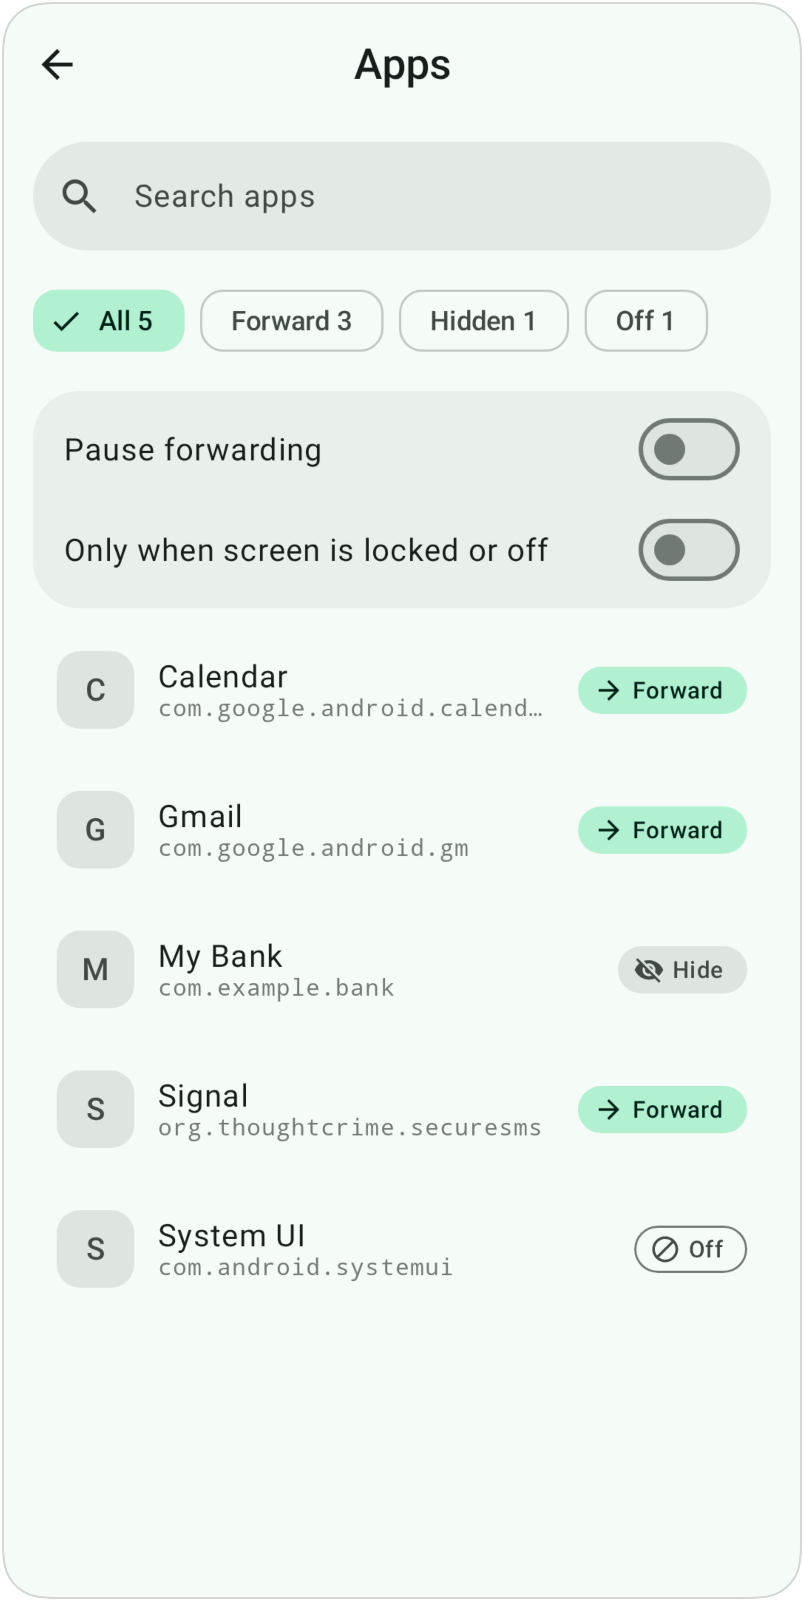
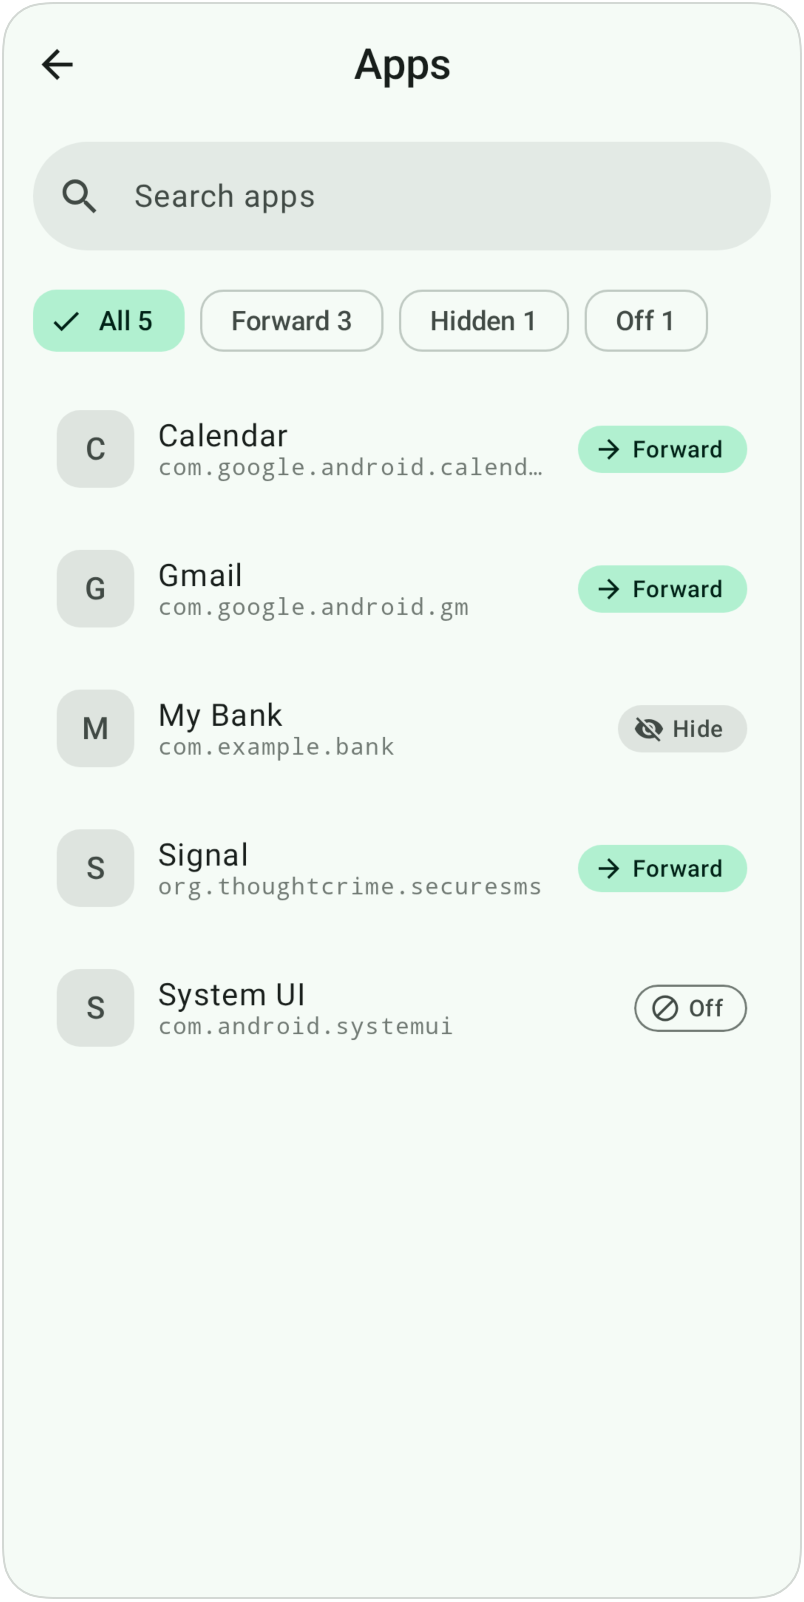
macOS: size the menu's activity list to its content
The menu-bar window proposes no height, so the ScrollView sized
itself to a sliver and showed part of one notification. Measure the
content and give the list an explicit height, capped at about two and
a half notification rows. The README snapshot lays out twice so it
picks up the measured height.

diff --git a/macos/App/Sources/Views/MenuBarView.swift b/macos/App/Sources/Views/MenuBarView.swift
@@ -25,7 +25,6 @@ struct MenuBarView: View {
             if model.phase == .ready {
                 NowPlayingSection()
                 ActivityList()
-                    .frame(maxHeight: 360)
             } else if model.phase == .onboarding {
                 notSetUp
             } else {
@@ -221,7 +220,11 @@ private struct NowPlayingSection: View {
 
 /// Recent notifications and clipboard items (in memory only).
 struct ActivityList: View {
+    /// About two and a half notification rows, so a cut-off row hints that the list scrolls.
+    static let maxHeight: CGFloat = 240
+
     @Environment(AppModel.self) private var model
+    @State private var contentHeight: CGFloat = 0
 
     var body: some View {
         let notifications = model.activity.notifications
@@ -255,7 +258,11 @@ struct ActivityList: View {
                 }
                 .padding(.horizontal, 6)
                 .padding(.vertical, 6)
+                .onGeometryChange(for: CGFloat.self) { $0.size.height } action: { contentHeight = $0 }
             }
+            // The menu-bar window offers no height of its own, so a ScrollView left to size
+            // itself collapses to a sliver. Size it to its content, up to the cap.
+            .frame(height: min(contentHeight, Self.maxHeight))
         }
     }
 }

diff --git a/macos/App/Tests/ReadmeImages.swift b/macos/App/Tests/ReadmeImages.swift
@@ -94,7 +94,7 @@ struct ReadmeImages {
     static func snapshot(_ view: some View) async throws -> NSImage {
         let host = NSHostingView(rootView: view)
         host.appearance = NSAppearance(named: .aqua)
-        let size = host.fittingSize
+        var size = host.fittingSize
         let window = NSWindow(contentRect: CGRect(origin: CGPoint(x: -10_000, y: -10_000), size: size),
                               styleMask: [.borderless], backing: .buffered, defer: false)
         window.appearance = NSAppearance(named: .aqua)
@@ -104,6 +104,13 @@ struct ReadmeImages {
         host.frame = CGRect(origin: .zero, size: size)
         host.layoutSubtreeIfNeeded()
         try await Task.sleep(for: .milliseconds(300))
+        // Views that size themselves from a measurement (the menu's activity list) settle on the
+        // second pass; resize like the menu-bar window does.
+        size = host.fittingSize
+        window.setContentSize(size)
+        host.frame = CGRect(origin: .zero, size: size)
+        host.layoutSubtreeIfNeeded()
+        try await Task.sleep(for: .milliseconds(100))
         host.layoutSubtreeIfNeeded()
         host.display()
 
